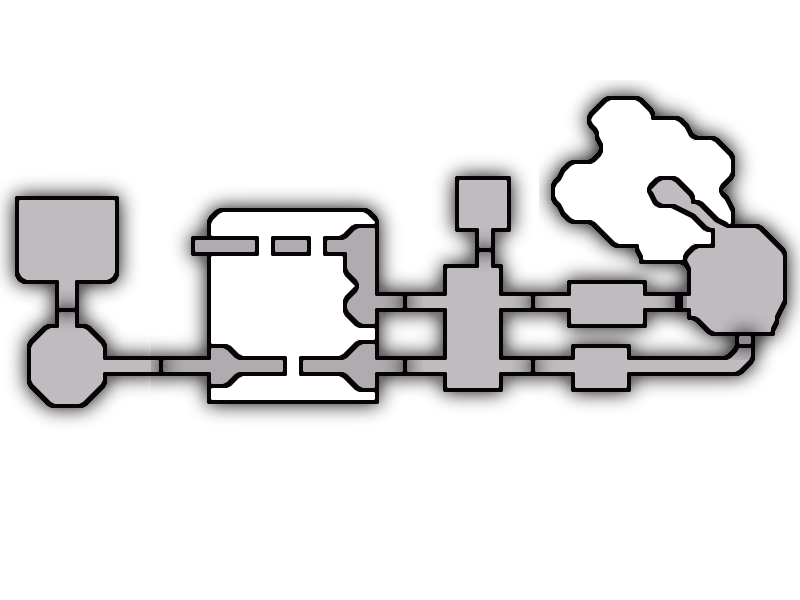
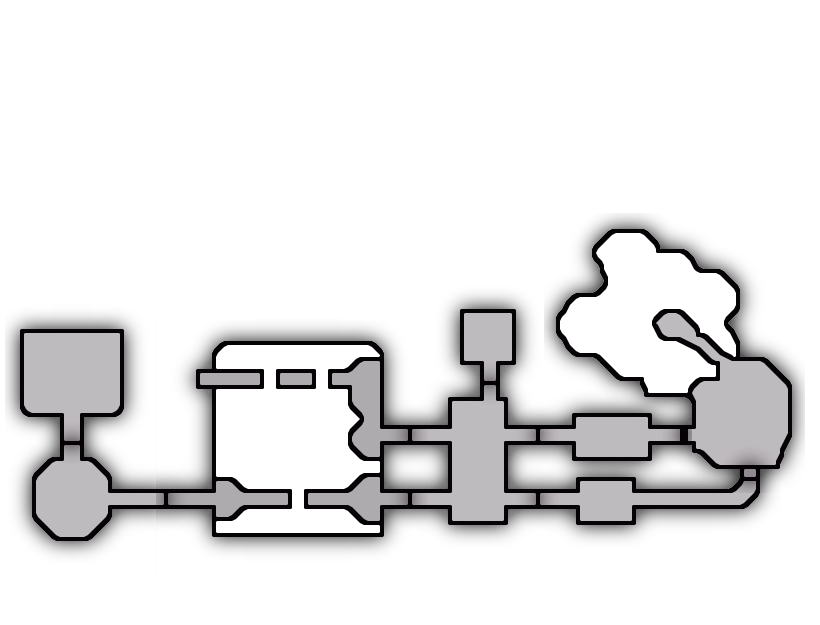
0.2.5 - Water, Shadow, Spirit, Well maps. Other map tweaks.

diff --git a/js/data/itemChecks.js b/js/data/itemChecks.js
@@ -362,19 +362,19 @@ define(["data/locations", "classes/itemCheck", "data/itemsAndSongs", "data/abili
       {age: Age.ADULT, abilities: [Abilities.SHIELD, Abilities.BOMB], glitches: true},
     ]),
     // Deku Tree
-    new ItemCheck("Map", Locations.DEKU_TREE, [200,137], "1F"),
-    new ItemCheck("Slingshot", Locations.DEKU_TREE, [55,250], "2F", [
+    new ItemCheck("Map", Locations.DEKU_TREE, [257,123], "1F"),
+    new ItemCheck("Slingshot", Locations.DEKU_TREE, [157,257], "2F", [
       {items: [Items.DEKU_SHIELD]},
       {items: [Items.MEGATON_HAMMER], glitches: true},
     ]),
-    new ItemCheck("Near Slingshot", Locations.DEKU_TREE, [80,260], "2F", [
+    new ItemCheck("Near Slingshot", Locations.DEKU_TREE, [175,260], "2F", [
       {items: [Items.DEKU_SHIELD]},
       {items: [Items.MEGATON_HAMMER], glitches: true},
     ]),
-    new ItemCheck("Compass", Locations.DEKU_TREE, [30,140], "3F",),
-    new ItemCheck("Near Compass", Locations.DEKU_TREE, [87,175], "3F",),
-    new ItemCheck("Basement", Locations.DEKU_TREE, [355,80], "B1",),
-    new ItemCheck("Queen Gohma", Locations.DEKU_TREE, [120,70], "B2", [
+    new ItemCheck("Compass", Locations.DEKU_TREE, [140,123], "3F",),
+    new ItemCheck("Near Compass", Locations.DEKU_TREE, [185,145], "3F",),
+    new ItemCheck("Basement", Locations.DEKU_TREE, [290,90], "B1",),
+    new ItemCheck("Queen Gohma", Locations.DEKU_TREE, [200,20], "B2", [
       // burn web with stick
       // shield for 231
       {items: [Items.DEKU_STICK, Items.DEKU_SHIELD, Items.FAIRY_SLINGSHOT], abilities: [Abilities.SLASH]},
@@ -415,19 +415,19 @@ define(["data/locations", "classes/itemCheck", "data/itemsAndSongs", "data/abili
       {abilities: [Abilities.CRUMBLE]},
       {abilities: [Abilities.STRENGTH]}
     ]),
-    new ItemCheck("Platform Chest", Locations.DODONGOS_CAVERN, [229,170], "2F", [
+    new ItemCheck("Platform Chest", Locations.DODONGOS_CAVERN, [224,230], "2F", [
       {abilities: [Abilities.CRUMBLE, Abilities.IGNITE]},
       {abilities: [Abilities.STRENGTH]}
     ]),
-    new ItemCheck("Scrub (2F)", Locations.DODONGOS_CAVERN, [233,88], "2F", [
+    new ItemCheck("Scrub (2F)", Locations.DODONGOS_CAVERN, [226,148], "2F", [
       {abilities: [Abilities.CRUMBLE]},
       {abilities: [Abilities.STRENGTH]}
     ]),
-    new ItemCheck("Bomb Bag", Locations.DODONGOS_CAVERN, [222,128], "2F", [
+    new ItemCheck("Bomb Bag", Locations.DODONGOS_CAVERN, [217,188], "2F", [
       {abilities: [Abilities.CRUMBLE, Abilities.IGNITE]},
       {abilities: [Abilities.STRENGTH]}
     ]),
-    new ItemCheck("End of Bridge", Locations.DODONGOS_CAVERN, [95,109], "2F", [
+    new ItemCheck("End of Bridge", Locations.DODONGOS_CAVERN, [90,169], "2F", [
       {abilities: [Abilities.CRUMBLE, Abilities.IGNITE]},
       {abilities: [Abilities.CRUMBLE, Abilities.STRENGTH]}
     ]),

diff --git a/js/app/main.js b/js/app/main.js
@@ -151,6 +151,14 @@ define(["require", "jquery", "data/ages", "data/abilities", "data/locations", "d
       $("#map-background").attr('src',"images/MAP_ICE_CAVERN_1F.png");
       $("#floor-indicator").html("(1F)");
     } 
+    else if (location===Locations.BOTTOM_OF_THE_WELL){      
+      $('#floor-selector').append($('<span/>').attr('class','floor').attr('num','B1').attr('style','background-color:black;color:white').html('B1')).append($('<br/>'))
+      .append($('<span/>').attr('class','floor').attr('num','B2').html('B2')).append($('<br/>'))
+      .append($('<span/>').attr('class','floor').attr('num','B3').html('B3')).append($('<br/>'));
+      $('#map-container').attr('floor','B1');
+      $("#map-background").attr('src',"images/MAP_BOTTOM_OF_THE_WELL_B1.png");
+      $("#floor-indicator").html("(B1)");
+    }
     else if (location===Locations.FOREST_TEMPLE){      
       $('#floor-selector').append($('<span/>').attr('class','floor').attr('num','2F').html('2F')).append($('<br/>'))
       .append($('<span/>').attr('class','floor').attr('num','1F').attr('style','background-color:black;color:white').html('1F')).append($('<br/>'))
@@ -178,6 +186,24 @@ define(["require", "jquery", "data/ages", "data/abilities", "data/locations", "d
       $('#map-container').attr('floor','1F');
       $("#map-background").attr('src',"images/MAP_WATER_TEMPLE_1F.png");
       $("#floor-indicator").html("(1F)");
+    }
+    else if (location===Locations.SPIRIT_TEMPLE){      
+      $('#floor-selector').append($('<span/>').attr('class','floor').attr('num','4F').html('4F')).append($('<br/>'))
+      .append($('<span/>').attr('class','floor').attr('num','3F').html('3F')).append($('<br/>'))
+      .append($('<span/>').attr('class','floor').attr('num','2F').html('2F')).append($('<br/>'))
+      .append($('<span/>').attr('class','floor').attr('num','1F').attr('style','background-color:black;color:white').html('1F')).append($('<br/>'))
+      $('#map-container').attr('floor','1F');
+      $("#map-background").attr('src',"images/MAP_SPIRIT_TEMPLE_1F.png");
+      $("#floor-indicator").html("(1F)");
+    }
+    else if (location===Locations.SHADOW_TEMPLE){      
+      $('#floor-selector').append($('<span/>').attr('class','floor').attr('num','B1').attr('style','background-color:black;color:white').html('B1')).append($('<br/>'))
+      .append($('<span/>').attr('class','floor').attr('num','B2').html('B2')).append($('<br/>'))
+      .append($('<span/>').attr('class','floor').attr('num','B3').html('B3')).append($('<br/>'))
+      .append($('<span/>').attr('class','floor').attr('num','B4').html('B4')).append($('<br/>'))
+      $('#map-container').attr('floor','B1');
+      $("#map-background").attr('src',"images/MAP_SHADOW_TEMPLE_B1.png");
+      $("#floor-indicator").html("(B1)");
     }
   };
 

diff --git a/index.html b/index.html
@@ -1,4 +1,4 @@
-<!DOCTYPE html>
+<!DOCTYPE html> 
 <html>
   <head>
     <title>ZOOTR Tracker</title>
@@ -19,12 +19,6 @@
       </h5>
       <div id="note-container"></div>
     </div>
-
-<!--     <div id="loading-anim">
-      <div id="anim-background">
-        <img src="song/staff.png" width="75%">
-      </div>
-    </div> -->
 
     <div id="loader"></div>
 
@@ -298,8 +292,7 @@
           <br>
           <span class="tabOverworld" id="inventory-tab" onclick="showInventory()"><span><b>&raquo;</b></span></span>
           <br id="inventory-tab">
-          <span class="tabOverworld" id="skulltula-tab" onclick="skullsOn()"><span><b>&raquo;</b></span></span>
-          
+          <span class="tabOverworld" id="skulltula-tab" onclick="skullsOn()"><span><b>&raquo;</b></span></span> 
         </div>
         <div class="pane-container" style="border:none">
           <div id="locations">
@@ -489,7 +482,7 @@
           </form>
         </div>
         <div class="modal-footer">
-          <p style="color:transparent; font-size:10px">shoutouts to simpleflips</p>
+          <a style="color:transparent; font-size:10px" href="https://www.youtube.com/watch?v=dQw4w9WgXcQ">easter egg</a>
         </div>
       </div>
     </div>
@@ -506,12 +499,12 @@
           </form>
         </div>
         <div class=modal-footer>
-          <a class="link" href="https://github.com/the404devs/zootr-tracker" style="color:white">v0.2.3 (02/18/19)</a>
+          <a class="link" href="https://github.com/the404devs/zootr-tracker" style="color:white">v0.2.5 (11/01/19)</a>
         </div>
       </div>
     </div>
 
-    <script type="text/javascript" src="../js/remove-branding.js"></script>
+    <!-- <script type="text/javascript" src="../js/remove-branding.js"></script> -->
     <div></div>
   </body>
 </html>

diff --git a/css/style.css b/css/style.css
@@ -181,13 +181,11 @@ p{
 }
 
 .location h3 {
-  /*position: relative;*/
   z-index: 0;
   margin-bottom: 5px;
 }
 
 .location h3 .keys {
-  /*position: absolute;*/
   display: inline;
   top: 0;
   right: 0;
@@ -201,10 +199,10 @@ p{
 ul.item-checks {
   margin-top: 0px;
   margin-left: 20px;
-  padding-left: 5px;
+  padding-left: 8px;
   border-left: solid 1px;
   border-bottom: solid 1px;
-  border-radius: 0 0 0 5px;
+  border-radius: 0 0 0 10px;
 }
 
 ul.item-checks li {
@@ -675,7 +673,6 @@ ul.item-checks li input[type=checkbox]:checked + label {
 #map-container{
   border: 2px solid white;
   border-radius: 10px;
-  /*position: absolute;*/
   float: right;
   width: 50%;
   min-width: 485px;
@@ -730,18 +727,17 @@ ul.item-checks li input[type=checkbox]:checked + label {
   margin-bottom: 0;
   width: fit-content;
   display: inline;
-  /*position: relative;*/
   /*left: 55%;*/
   /*top:35px;*/
 }
 
 #floor-selector{
-  /*position: absolute;*/
-  float: right;
+  position: absolute;
+  /*float: right;*/
   /*width:100px;*/
   vertical-align: middle;
-  margin-top: 50px;
-  margin-right: 50px;
+  top: 150px;
+  right: 25px;
   text-align: center;
 }
 

diff --git a/js/app.js b/js/app.js
@@ -53,10 +53,12 @@ at the top of the screen as you scroll down. We do the same here with the map an
 window.onscroll = function() {
 	var mapbox = document.getElementById("map-container");
 	var tabs = document.getElementById("overworldTabs");
+  var floors = document.getElementById("floor-selector");
 	offset = window.pageYOffset-84;
 	if (offset<0) {offset=0}
 	mapbox.style.marginTop =  offset +"px";
 	tabs.style.marginTop =  offset + 4 +"px";
+  floors.style.marginTop = offset+50+"px";
 };	
 
 

diff --git a/README.md b/README.md
@@ -3,6 +3,13 @@ A tracker application for Ocarina of Time Randomizer
 www.the404.nl/zootr  
 Based off the work of Jared Branum, which can be found [here](https://github.com/jaredbranum/zootr-tracker)
 
+### *0.2.5 (11/01/19)*
+----------------------
+- Completed maps for Water, Shadow and Spirit Temples, and BOTW (Still need to plot checks).
+- Adjusted maps for Deku, Dodongo's, and Jabu to have each floor correctly superimposed over each other.
+- Slight adjustments to the map view.
+- Adjusted Song class to contain a sequence of notes corresponding to that song. Will be used for a future loading animation.
+
 ### *0.2.4 (03/07/19)*
 ----------------------
 - Fixed an issue that caused the application to load incorrectly, by attempting to create an Item object prior to loading the Item class. Oops.
